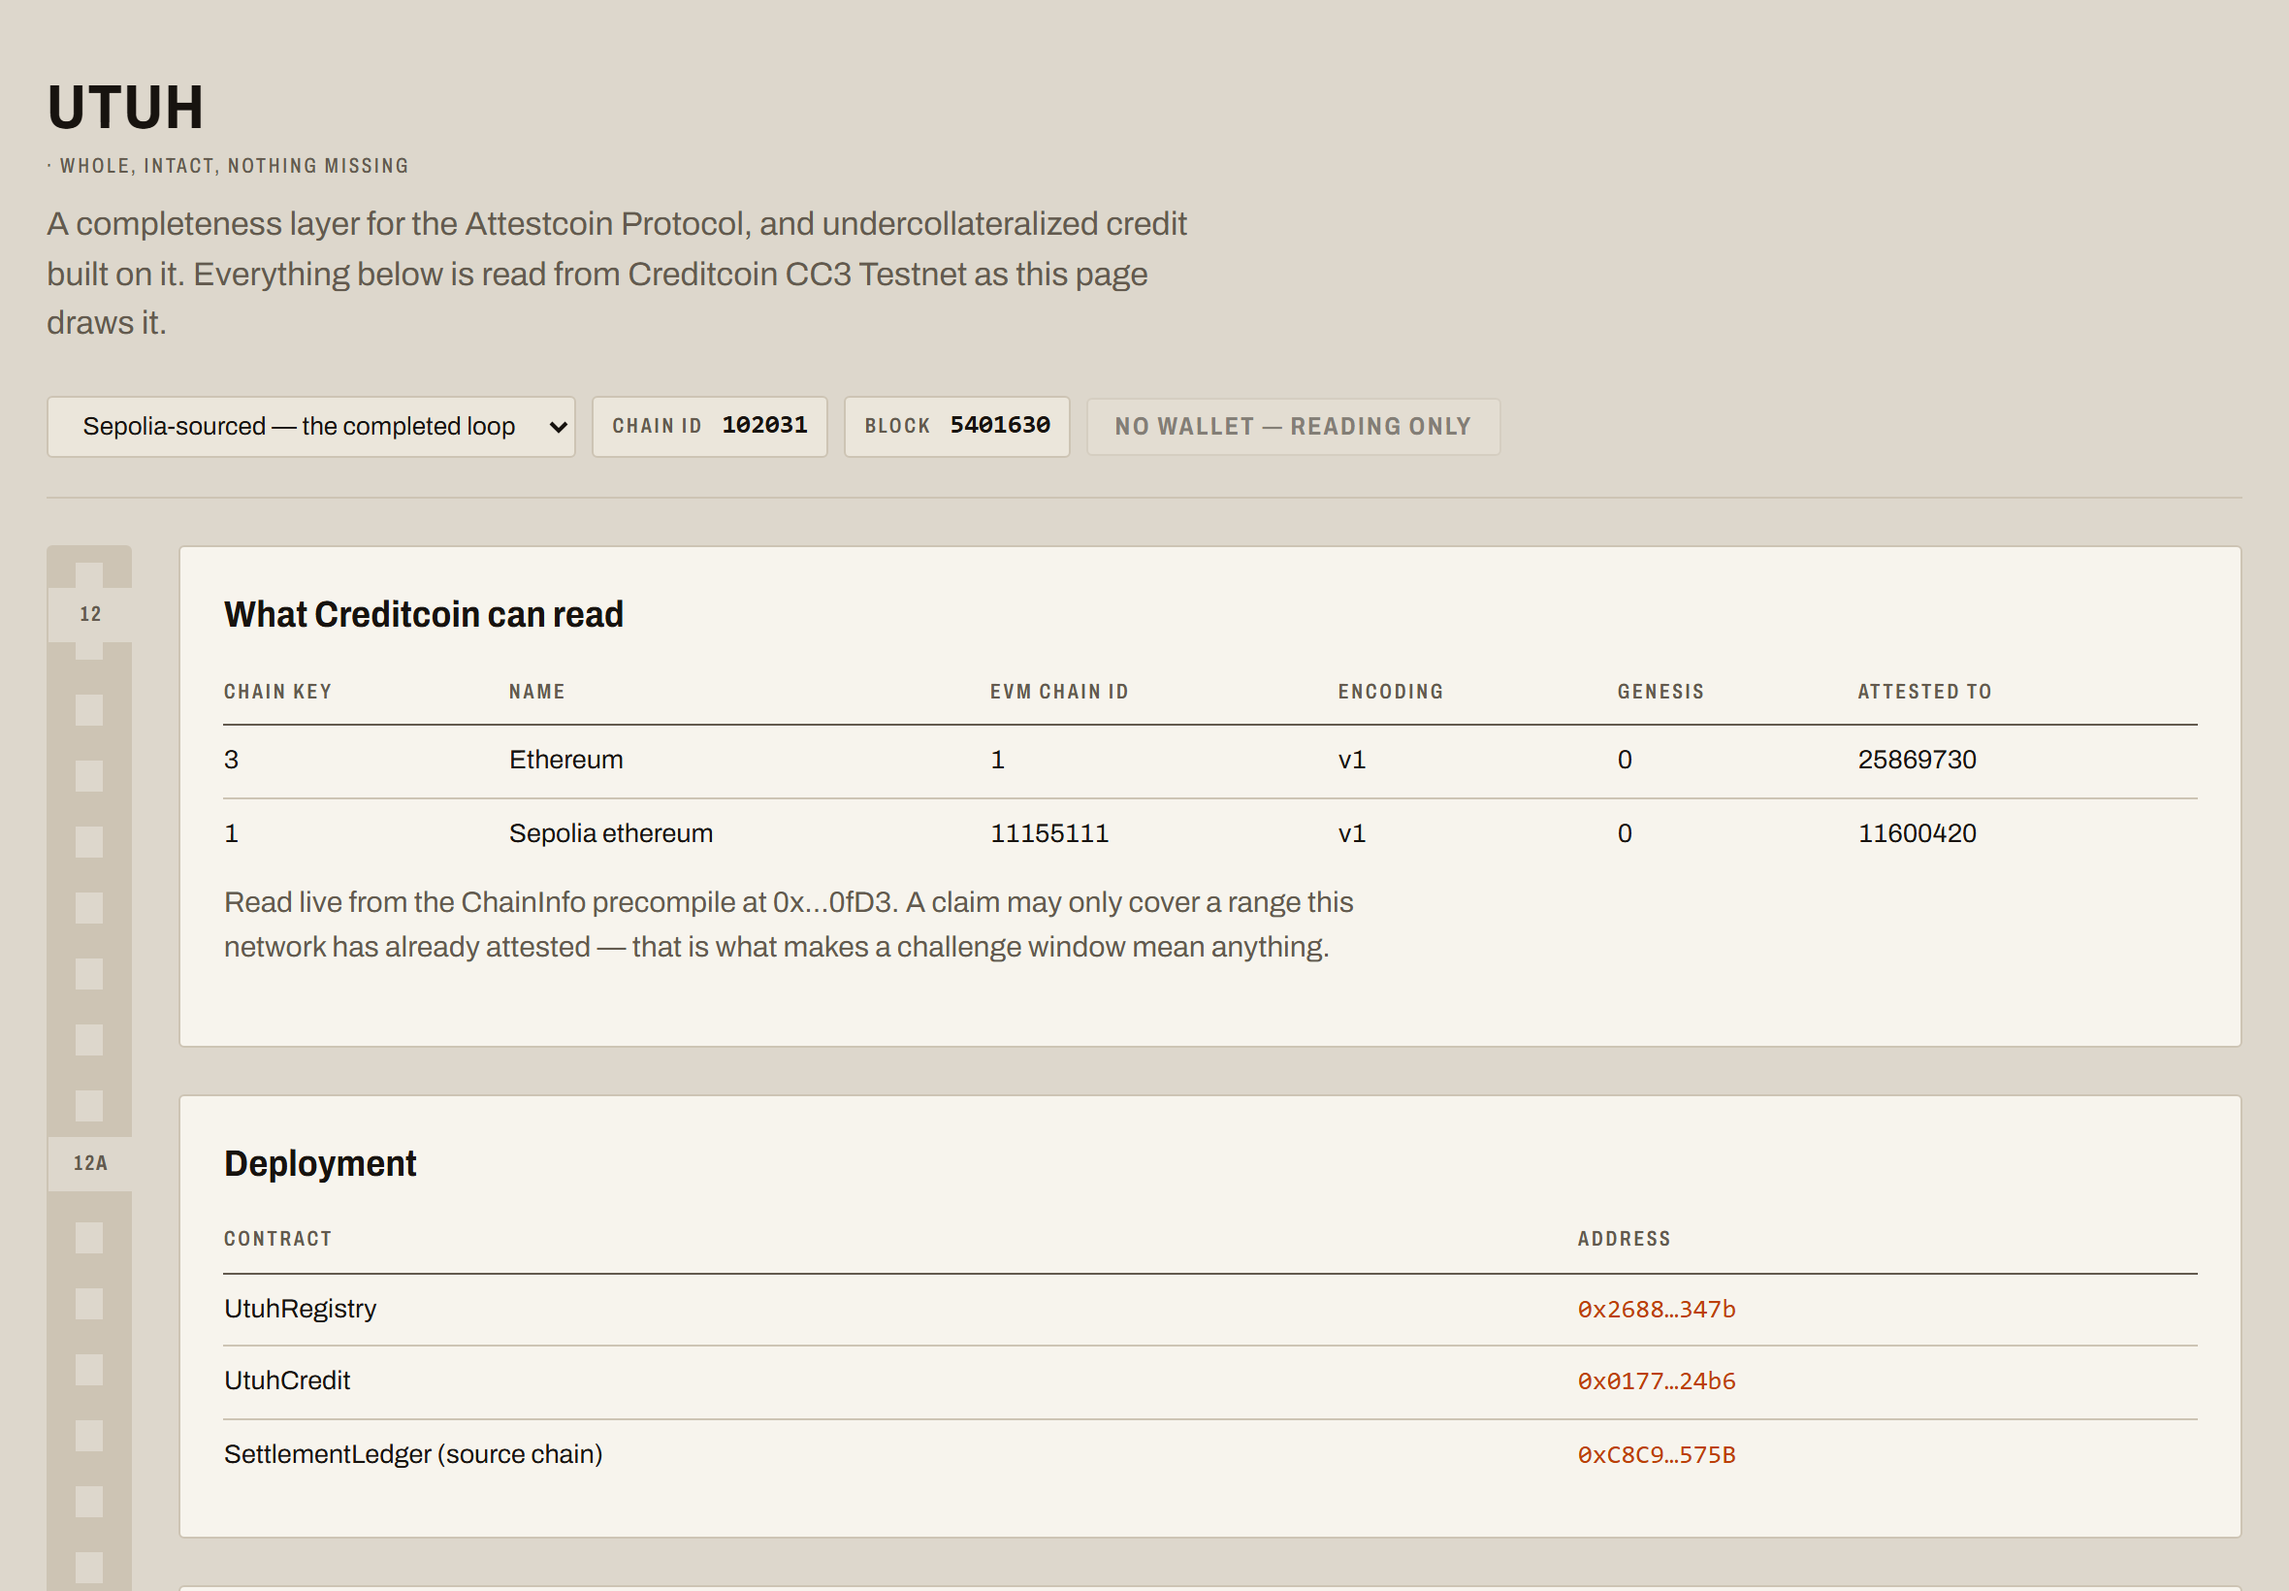
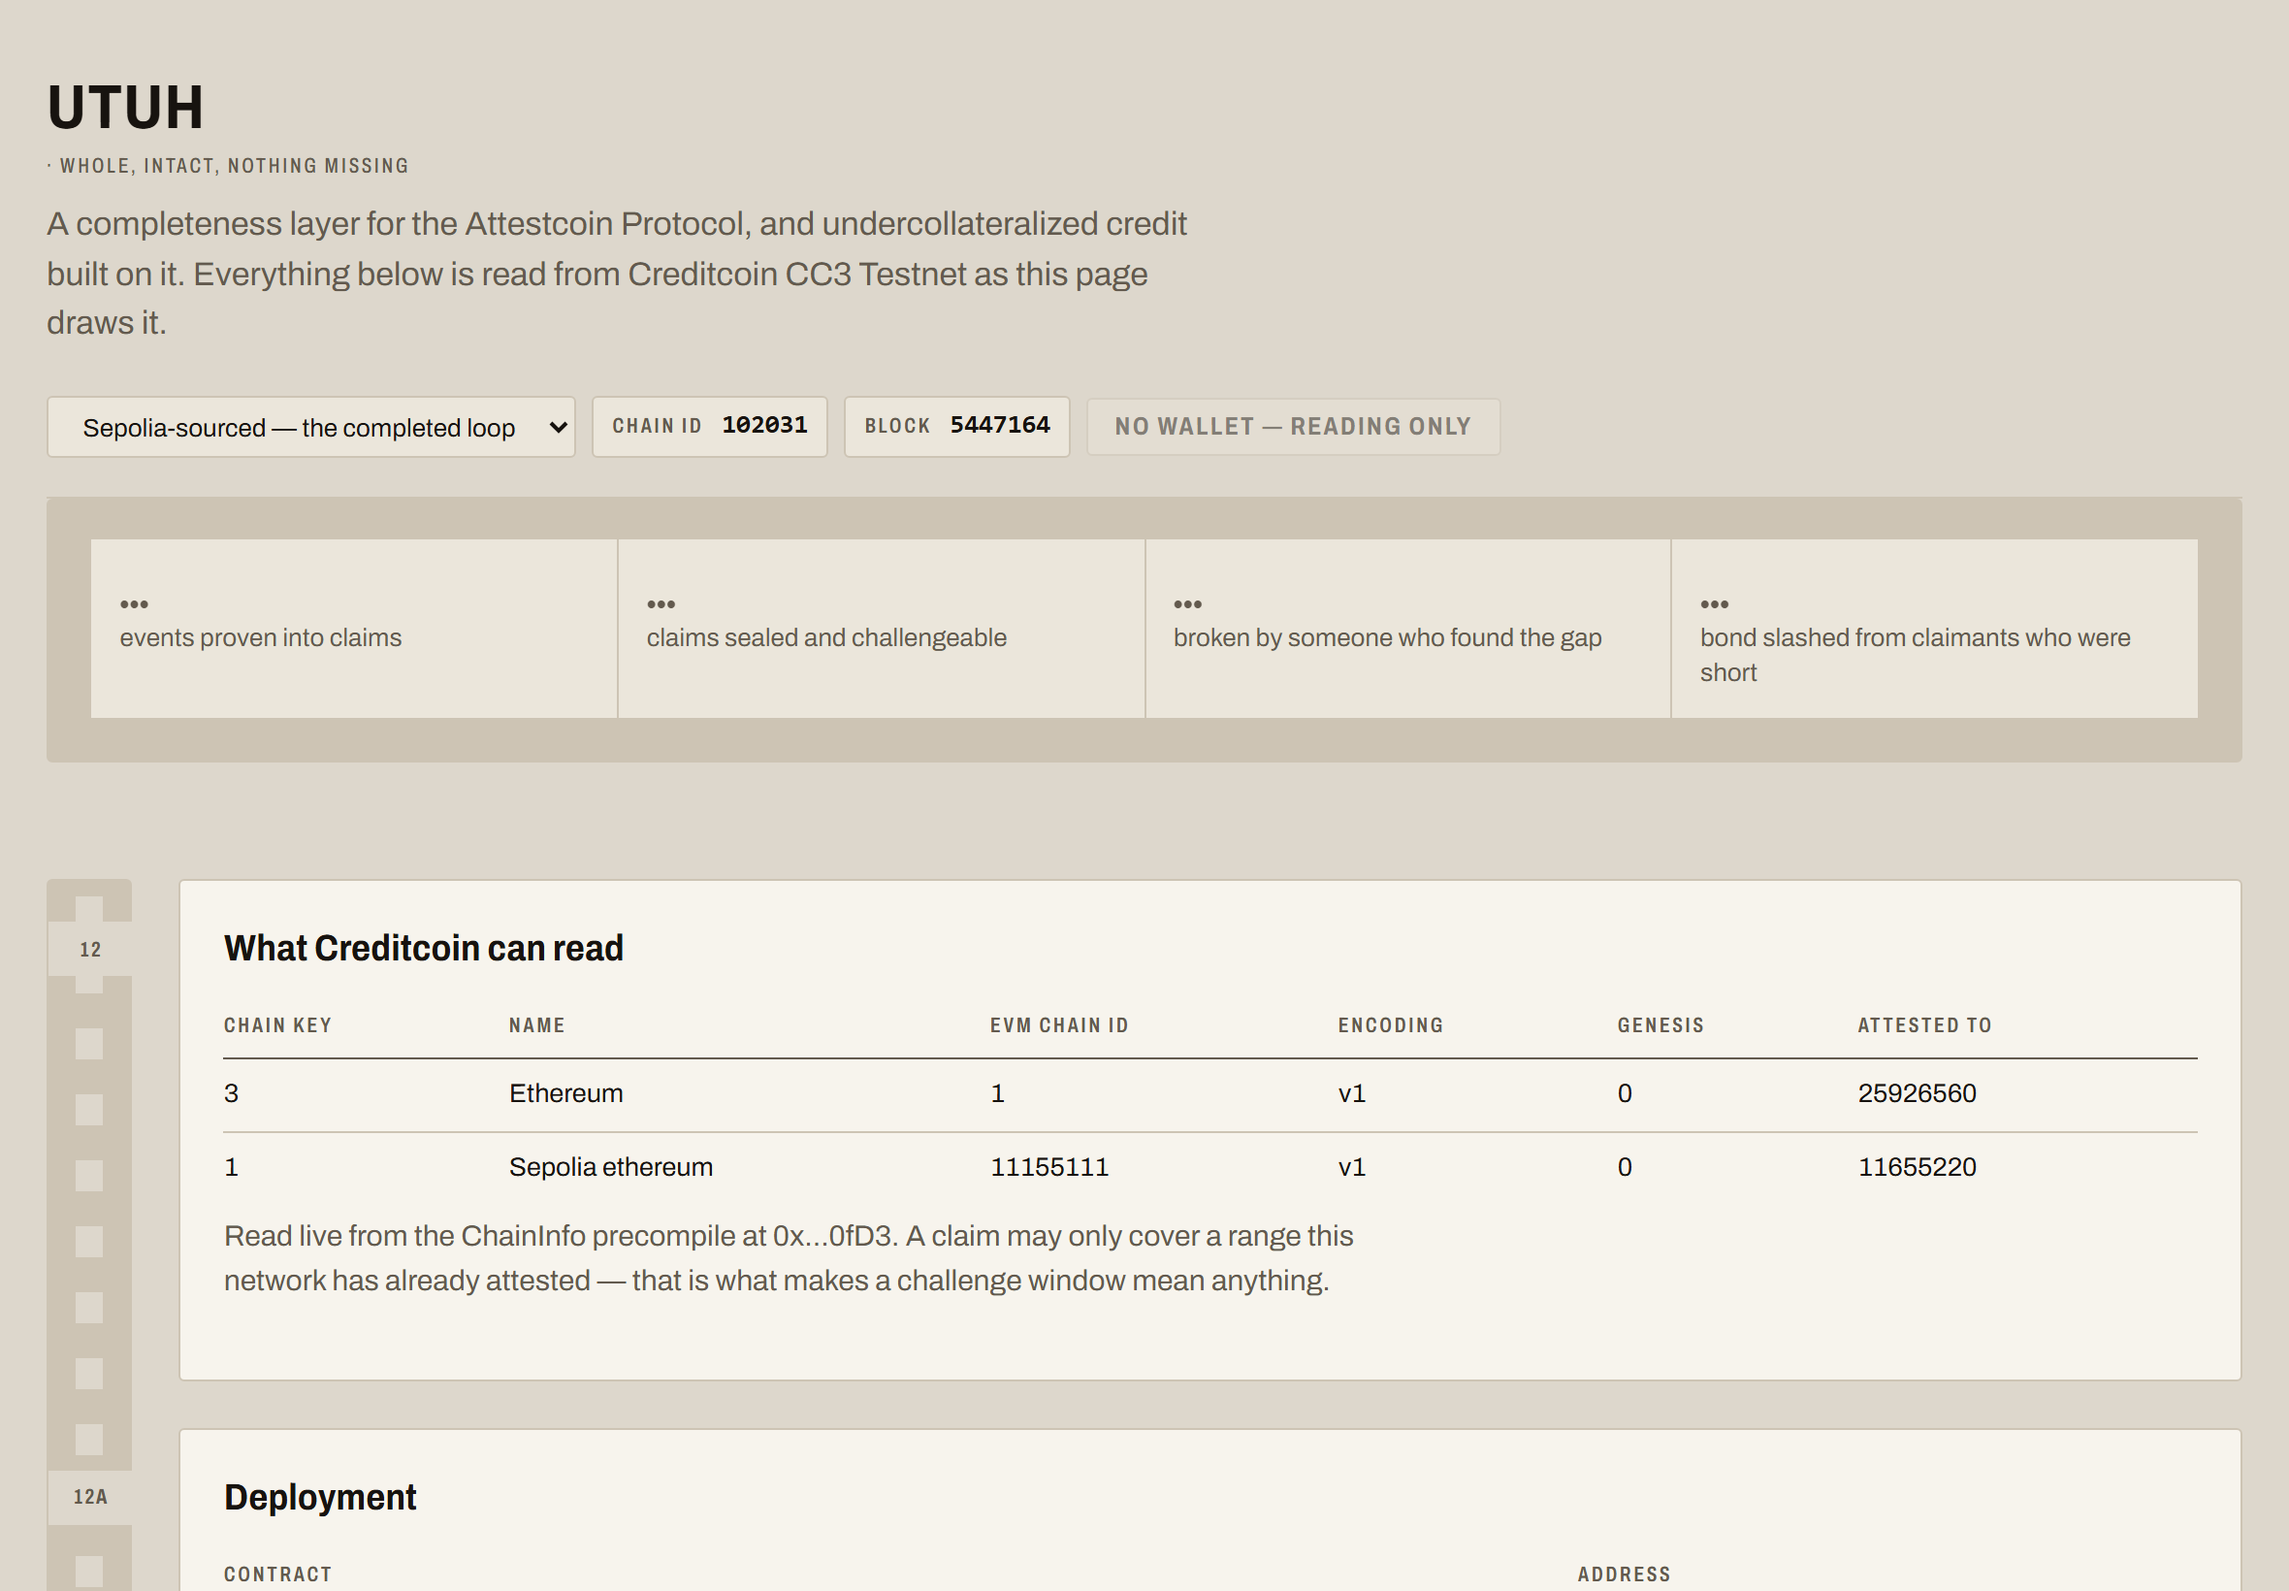
The link preview was a week behind the page it is a photograph of
`web/og.png` is what every share of the console shows, and what the submission will use
as its cover — all sixty-two entries on the board carry one. It was a copy of
`shots/top.png` that somebody made by hand on 31 August, and the page has changed since:
new columns in the attestor audit, new copy under it. Nothing could catch that, because
a picture cannot be checked against a chain.

`shots.ts` now writes it from the same capture in the same run, so it cannot drift again,
and this refreshes it.

Claude-Session: https://claude.ai/code/session_01UoYrNV8HZCxMpNttXQksth

Changed region(s): [[0.0309, 0.3421, 0.9898, 1.0], [0.0309, 0.2488, 0.2165, 0.2799], [0.4331, 0.2488, 0.464, 0.2799]]

diff --git a/web/tests/shots.ts b/web/tests/shots.ts
@@ -13,7 +13,8 @@ import { injectWallet } from './wallet';
 /// The borrow pane is shown connected as the browser-borrower — a key derived from the operator's,
 /// which has two settled lines on the Sepolia deployment — with a wallet that never signs.
 
-const OUT = process.argv[2] ?? join(process.cwd(), 'web', 'static', 'shots');
+const ROOT = process.cwd();
+const OUT = process.argv[2] ?? join(ROOT, 'web', 'static', 'shots');
 const BASE = process.env.BASE_URL ?? 'http://127.0.0.1:5173';
 
 async function ready(page: import('@playwright/test').Page, url: string): Promise<void> {
@@ -84,10 +85,17 @@ async function main(): Promise<void> {
   page = await context.newPage();
   await ready(page, `${BASE}/`);
   await page.screenshot({ path: join(OUT, 'top.png'), clip: { x: 0, y: 0, width: 1180, height: 820 } });
+
+  // The link preview is the same photograph, and it used to be a copy somebody remembered to make.
+  // `web/og.png` is what every share of this URL shows and what the submission uses as its cover,
+  // and it had drifted a week behind the page it claims to be — the only kind of staleness nothing
+  // here can detect, because a picture cannot be checked against a chain. Written from the same
+  // capture, in the same run, so it cannot drift again.
+  await page.screenshot({ path: join(ROOT, 'web', 'og.png'), clip: { x: 0, y: 0, width: 1180, height: 820 } });
   await page.close();
 
   await browser.close();
-  console.log(`screenshots in ${OUT}`);
+  console.log(`screenshots in ${OUT}, link preview in web/og.png`);
 }
 
 main().then(

diff --git a/README.md b/README.md
@@ -869,7 +869,9 @@ web/
   borrowPane.ts             the steps, each one reading back what the chain says rather than
                             what the page thinks
   serve.ts                  a static server, and nothing else — no key, no indexer, no cache
-  og.png                    the page, photographed by tests/shots.ts — what a link preview shows
+  og.png                    the page, photographed by tests/shots.ts in the same run as the
+                            screenshots — what a link preview shows, and what it used to be a
+                            week behind because the copy was made by hand
   build-static.ts           the published build: four files and a picture, no server, ABIs baked in
   whitepaper.html           the whitepaper, and the source the submitted PDF is rendered from
   build-pdf.ts              renders it with the Chromium the browser suite already installs
